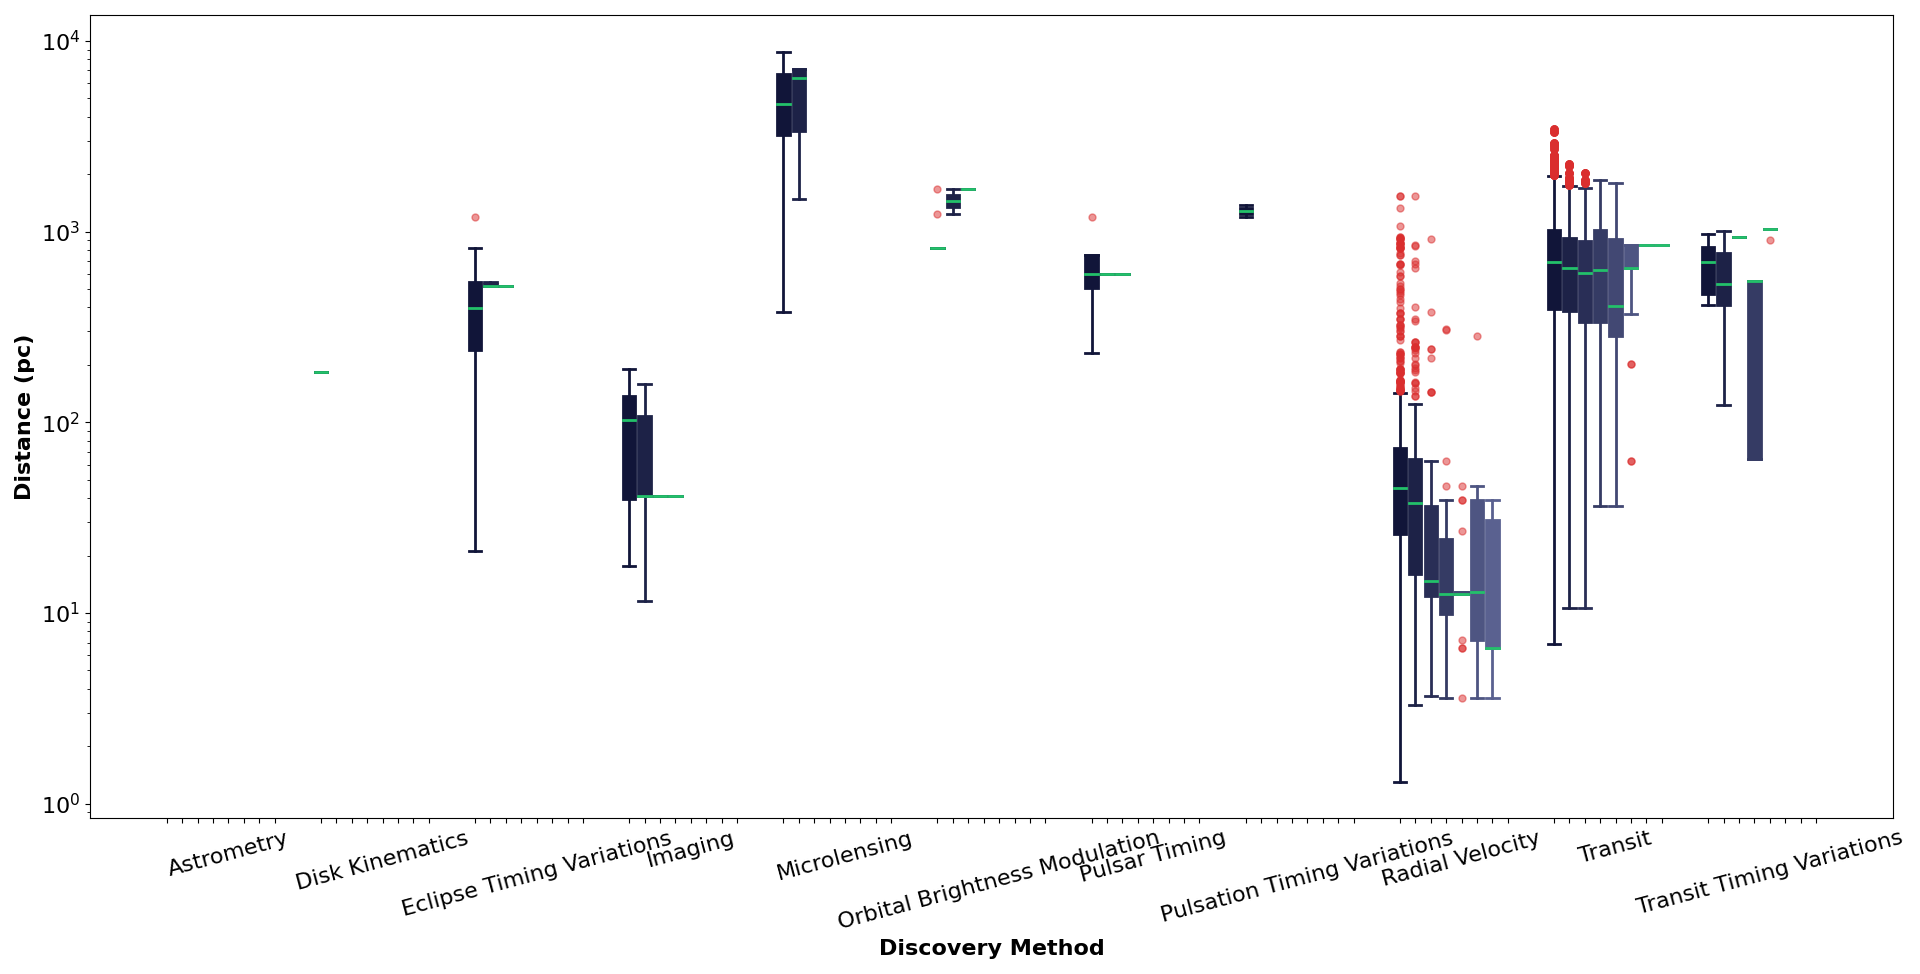
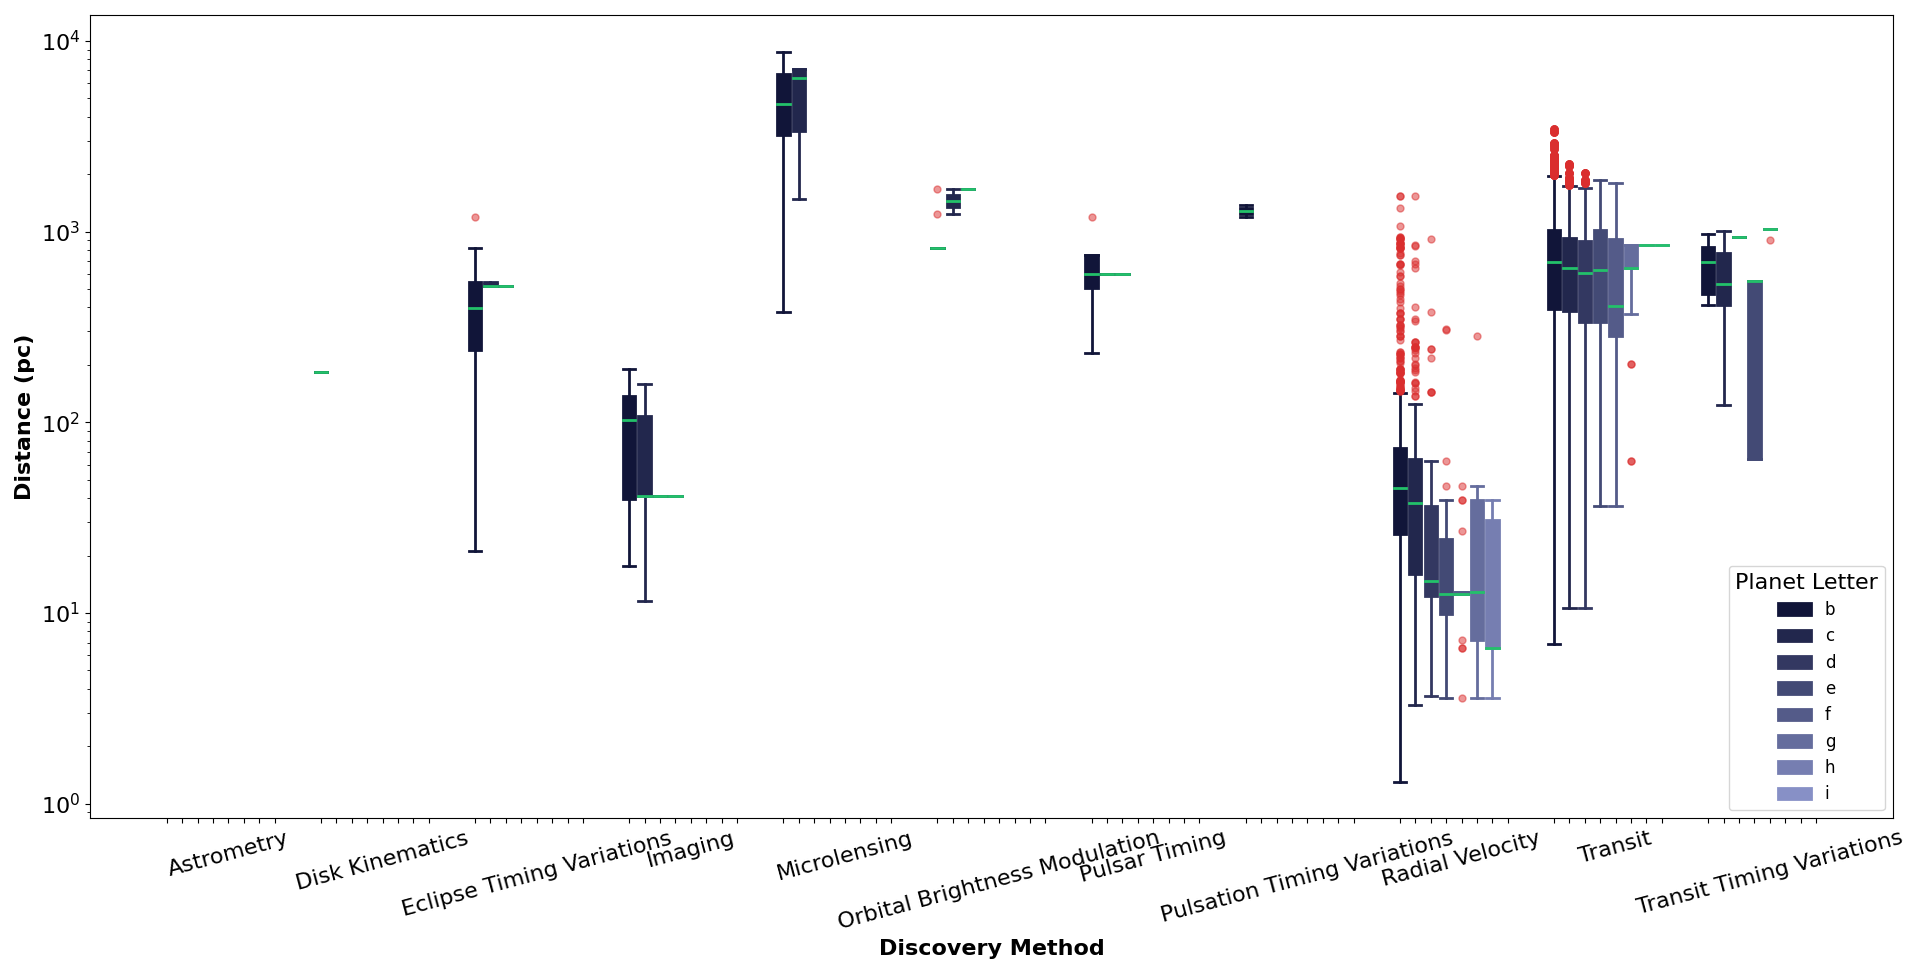
boxplot grouped seaborn ok

Changed region(s): [[0.9062, 0.5852, 0.9688, 0.8316], [0.75, 0.4928, 0.7812, 0.6776], [0.8438, 0.2464, 0.875, 0.2772]]

diff --git a/Plot_types/Boxplot_Grouped/Boxplot_Grouped_Python_seaborn.py b/Plot_types/Boxplot_Grouped/Boxplot_Grouped_Python_seaborn.py
@@ -1,0 +1,142 @@
+
+# Paths:
+path_data = "data/"
+path_plot = "Plot_types/Barplot/"
+
+# Packages:
+import numpy as np
+import pandas as pd
+import matplotlib.pyplot as plt
+from matplotlib.colors import LinearSegmentedColormap, Normalize
+from matplotlib.colorbar import ColorbarBase
+import matplotlib.gridspec as gridspec
+import re
+import seaborn as sns
+
+# Display options:
+pd.set_option("display.width", 1200)
+pd.set_option("display.max_columns", 300)
+pd.set_option("display.max_rows", 300)
+
+# Dataset:
+df = pd.read_csv(path_data + "nasa_exoplanets.csv")
+df_varnames = pd.read_csv(path_data + "nasa_exoplanets_var_names.csv")
+
+# Variables:
+cat_var1 = "discoverymethod"
+cat_var_name1 = df_varnames.loc[(df_varnames["var"] == cat_var1), ["var_name"]].values[0][0]
+cat_var2 = "pl_letter"
+cat_var_name2 = df_varnames.loc[(df_varnames["var"] == cat_var2), ["var_name"]].values[0][0]
+num_var = "sy_dist"
+num_var_name = df_varnames.loc[(df_varnames["var"] == num_var), ["var_name"]].values[0][0]
+
+# Adapt the data:
+df_plot = df.loc[:, [cat_var1, cat_var2, num_var]]
+df_plot = df_plot.sort_values(cat_var1)
+
+# Deal with nan:
+df_plot[cat_var1] = df_plot[cat_var1].fillna("NA")
+df_plot[cat_var2] = df_plot[cat_var2].fillna("NA")
+
+# Plot:
+lvls1 = np.sort(df_plot[cat_var1].unique())
+n_levels1 = len(lvls1)
+lvls2 = np.sort(df_plot[cat_var2].unique())
+n_levels2 = len(lvls2)
+cmap = LinearSegmentedColormap.from_list("my_palette", ["#111539", "#97A1D9"])
+my_palette = [cmap(i/n_levels2) for i in np.array(range(n_levels2))]
+
+fig, ax = plt.subplots(
+    figsize = (20, 10),
+    tight_layout = True
+)
+outlier_color = "#DA2E2E"
+median_color = "#23C16A"
+sns.boxplot(
+    data = df_plot,
+    x = cat_var1,
+    y = num_var,
+    color = cat_var2,
+    hue = cat_var2,
+    dodge = True,
+    palette = my_palette,
+    saturation = 1,
+    ax = ax,
+    flierprops = {
+        "markerfacecolor": outlier_color,
+        "markeredgecolor": outlier_color,
+        "markersize": 5,
+        "alpha": 0.5
+    },
+    width = 0.8
+)
+
+# Track the boxes that are ploted:
+art_ind, l2_ind = [], []
+cnt = 0
+for l1, lvl1 in enumerate(lvls1):
+    for l2, lvl2 in enumerate(lvls2):
+        df_lvl = df_plot.loc[(df_plot.loc[:, cat_var1] == lvl1) & \
+                             (df_plot.loc[:, cat_var2] == lvl2), num_var].values
+        df_lvl = df_lvl[~np.isnan(df_lvl)]
+        if len(df_lvl) > 0:
+            art_ind += [cnt]
+            l2_ind += [l2]
+            cnt += 1
+df_inds = pd.DataFrame(
+    {
+        "art_ind": art_ind,
+        "l2_ind": l2_ind
+    }
+)
+# Change their colors:
+for i, artist in enumerate(ax.artists):
+    l2 = df_inds.loc[df_inds["art_ind"] == i, "l2_ind"].tolist()[0]
+    artist.set_edgecolor(my_palette[l2])
+    artist.set_color(my_palette[l2])
+    # Each of the box has 6 component lines:
+    for j in range(i*6, i*6 + 6):
+        line = ax.lines[j]
+        # The 4th line is the median one:
+        if j - i*6 == 4:
+            line.set_color(median_color)
+        else:
+            line.set_color(my_palette[l2])
+        line.set_linewidth(2)
+
+plt.legend(
+    title = cat_var_name2,
+    fontsize = 12    
+)
+plt.setp(
+    ax.get_legend().get_title(),
+    fontsize = "14"
+)
+# Fix the borders in the legend items:
+for i in range(n_levels2):
+    _ = ax.get_legend().get_patches()[i].set_edgecolor("white")
+
+_ = ax.set_yscale("log")
+_ = ax.set_xlabel(
+    cat_var_name1,
+    fontsize = 16,
+    fontweight = "bold"
+)
+_ = ax.set_ylabel(
+    num_var_name,
+    fontsize = 16,
+    fontweight = "bold"
+)
+_ = ax.tick_params(
+    axis = "x", 
+    which = "major", 
+    labelsize = 16,
+    rotation = 20
+)
+_ = ax.tick_params(
+    axis = "y", 
+    which = "major", 
+    labelsize = 16
+)
+
+

diff --git a/Plot_types/Boxplot_Grouped/Boxplot_Grouped_Python_matplotlib.py b/Plot_types/Boxplot_Grouped/Boxplot_Grouped_Python_matplotlib.py
@@ -40,7 +40,7 @@ n_levels1 = len(lvls1)
 lvls2 = np.sort(df_plot[cat_var2].unique())
 n_levels2 = len(lvls2)
 cmap = LinearSegmentedColormap.from_list("my_palette", ["#111539", "#97A1D9"])
-my_palette = [cmap(i/n_levels1) for i in np.array(range(n_levels2))]
+my_palette = [cmap(i/n_levels2) for i in np.array(range(n_levels2))]
 fig, ax = plt.subplots(
     figsize = (20, 10),
     tight_layout = True
@@ -49,6 +49,7 @@ outlier_color = "#DA2E2E"
 median_color = "#23C16A"
 total_width = 0.8
 single_width = total_width/n_levels2*0.8
+bps = []
 for l1, lvl1 in enumerate(lvls1):
     for l2, lvl2 in enumerate(lvls2):
         edge_color = my_palette[l2]
@@ -99,6 +100,15 @@ for l1, lvl1 in enumerate(lvls1):
                 markersize = 5,
                 alpha = 0.5
             )
+        bps += [bp]
+ax.legend(
+    handles = [bpi["boxes"][0] for bpi in bps][:n_levels2],
+    labels = lvls2.tolist(),
+    fontsize = "large",
+    title = cat_var_name2,
+    title_fontsize = 16,
+    loc = "lower right"
+)
 _ = ax.set_yscale("log")
 _ = ax.set_xlabel(
     cat_var_name1,
